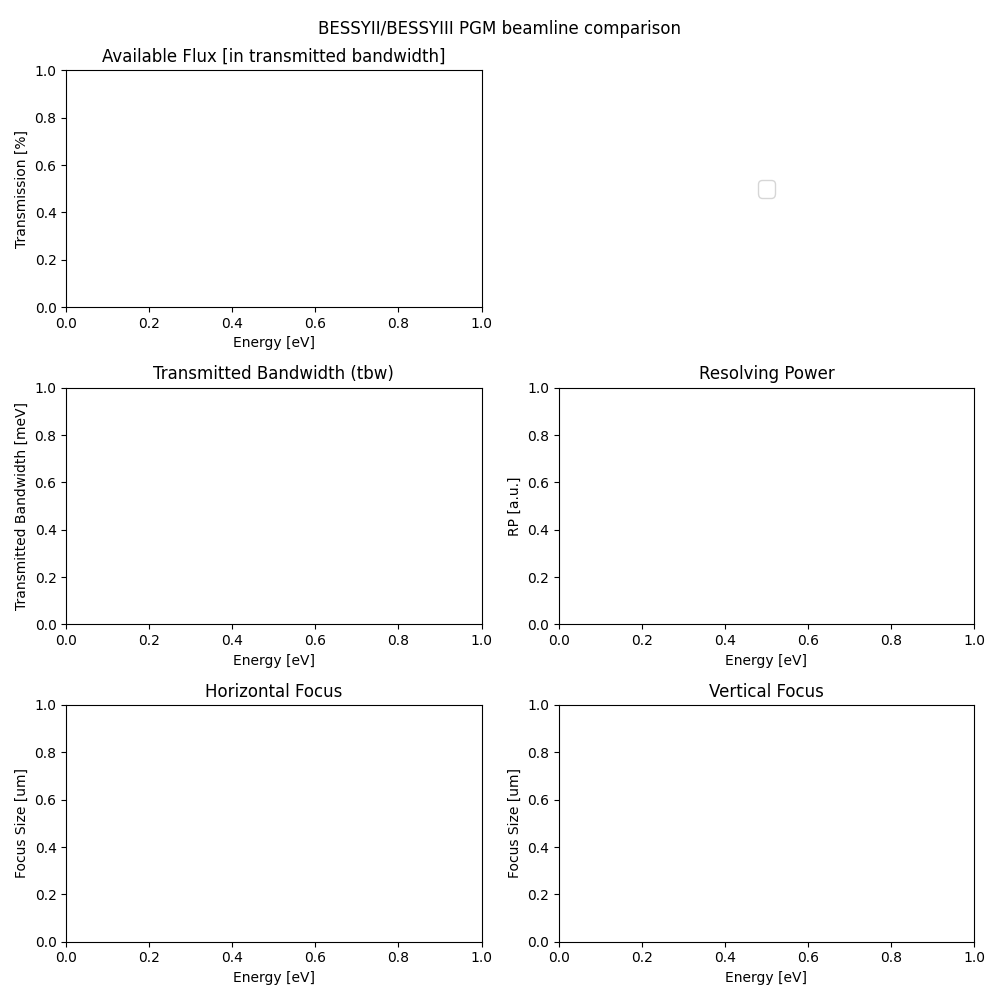
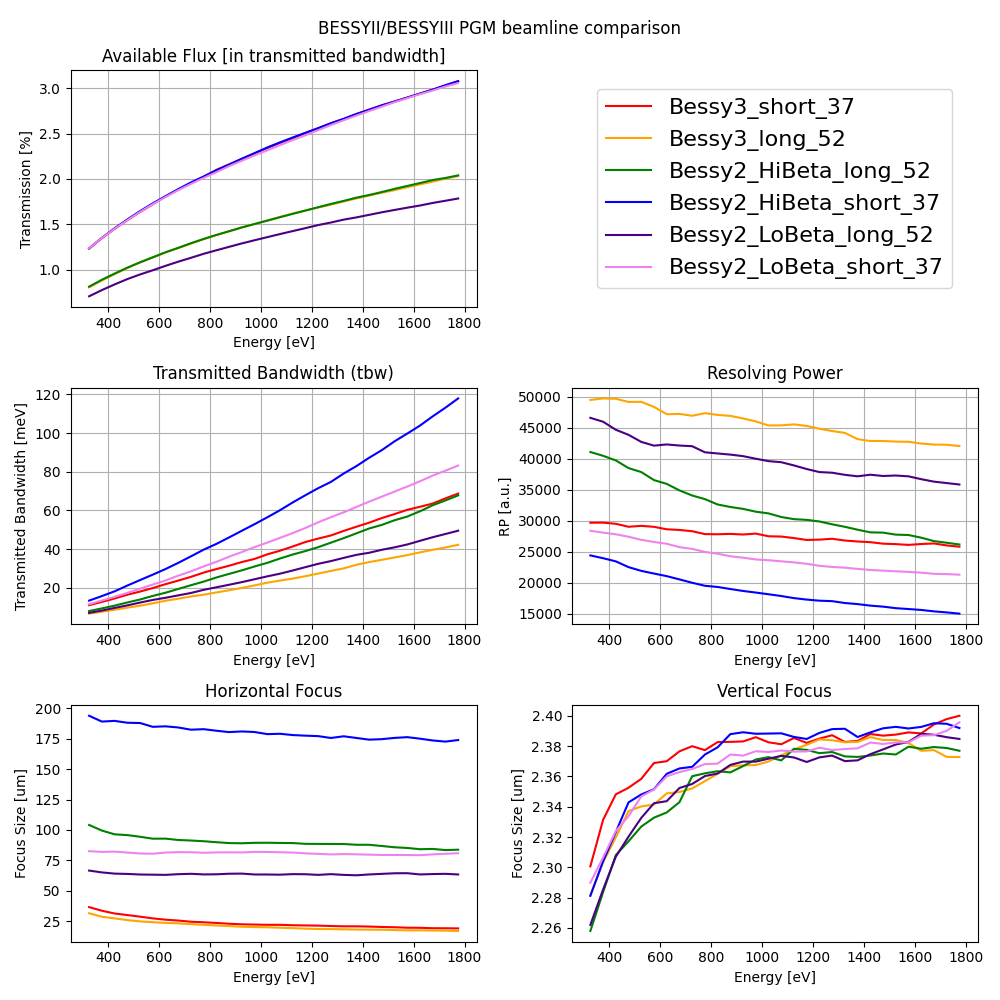
fix eval_comparison

diff --git a/Simulations/2_shorter_B3_BL/eval_comparison_RP_B2_3.py b/Simulations/2_shorter_B3_BL/eval_comparison_RP_B2_3.py
@@ -18,12 +18,12 @@ moving_average = p.moving_average
 
 SlitSize = SlitSize*1000
 rml_comparison_list = {}
-rml_comparison_list[rml_file_name_bessy3_short_37]=0
-rml_comparison_list[rml_file_name_bessy3_long_52]=0
-rml_comparison_list[rml_file_name_bessy2_HiBeta_long_52]=0
-rml_comparison_list[rml_file_name_bessy2_HiBeta_short_37]=0
-rml_comparison_list[rml_file_name_bessy2_LoBeta_long_52]=0
-rml_comparison_list[rml_file_name_bessy2_LoBeta_short_37]=0
+rml_comparison_list[rml_file_name_bessy3_short_37]        = 2
+rml_comparison_list[rml_file_name_bessy3_long_52]         = 2
+rml_comparison_list[rml_file_name_bessy2_HiBeta_long_52]  = 2
+rml_comparison_list[rml_file_name_bessy2_HiBeta_short_37] = 2
+rml_comparison_list[rml_file_name_bessy2_LoBeta_long_52]  = 2
+rml_comparison_list[rml_file_name_bessy2_LoBeta_short_37] = 2
 
 # set moving average window
 window = 10
@@ -100,7 +100,6 @@ for rml_file_name, ind in rml_comparison_list.items():
     # plotting Flux and RP
     # BEAMLINE TRANSMISSION
     flux_plot = flux['PercentageRaysSurvived'][ssf*ind:ssf*(ind+1)]
-    print(flux_plot)
     flux_plot = moving_average(flux_plot.to_numpy(), window)
     flux_ax.plot(energy_flux,flux_plot, colors[color_index], label=f'{rml_file_name}' )
 
@@ -118,18 +117,18 @@ for rml_file_name, ind in rml_comparison_list.items():
     except ZeroDivisionError:
         res_p = 0
     inf_indices = np.where(np.isinf(rp))[0]
-    if len(inf_indices)>0:
-        print(f"For {varying_var_n} size {ssrp}, you have zero bandwidth starting at E={energy_rp[inf_indices[0]]} eV.")
     rp_ax.plot(energy_rp, res_p, colors[color_index])
 
 
     # HORIZONTAL FOCUS
-    hor_foc = moving_average(rp['HorizontalFocusFWHM'], window)
-    hf_ax.plot(energy_rp,1000*hor_foc[ssrp*ind:ssrp*(ind+1)],colors[color_index])
+    hor_foc = rp['HorizontalFocusFWHM'][ssrp*ind:ssrp*(ind+1)]
+    hor_foc = moving_average(hor_foc.to_numpy(), window)
+    hf_ax.plot(energy_rp,1000*hor_foc,colors[color_index])
 
     # VERTICAL FOCUS
-    ver_foc = moving_average(rp['VerticalFocusFWHM'], window)
-    vf_ax.plot(energy_rp,1000*ver_foc[ssrp*ind:ssrp*(ind+1)],colors[color_index])
+    ver_foc = rp['VerticalFocusFWHM'][ssrp*ind:ssrp*(ind+1)]
+    ver_foc = moving_average(ver_foc.to_numpy(), window)
+    vf_ax.plot(energy_rp,1000*ver_foc,colors[color_index])
 
 
 
